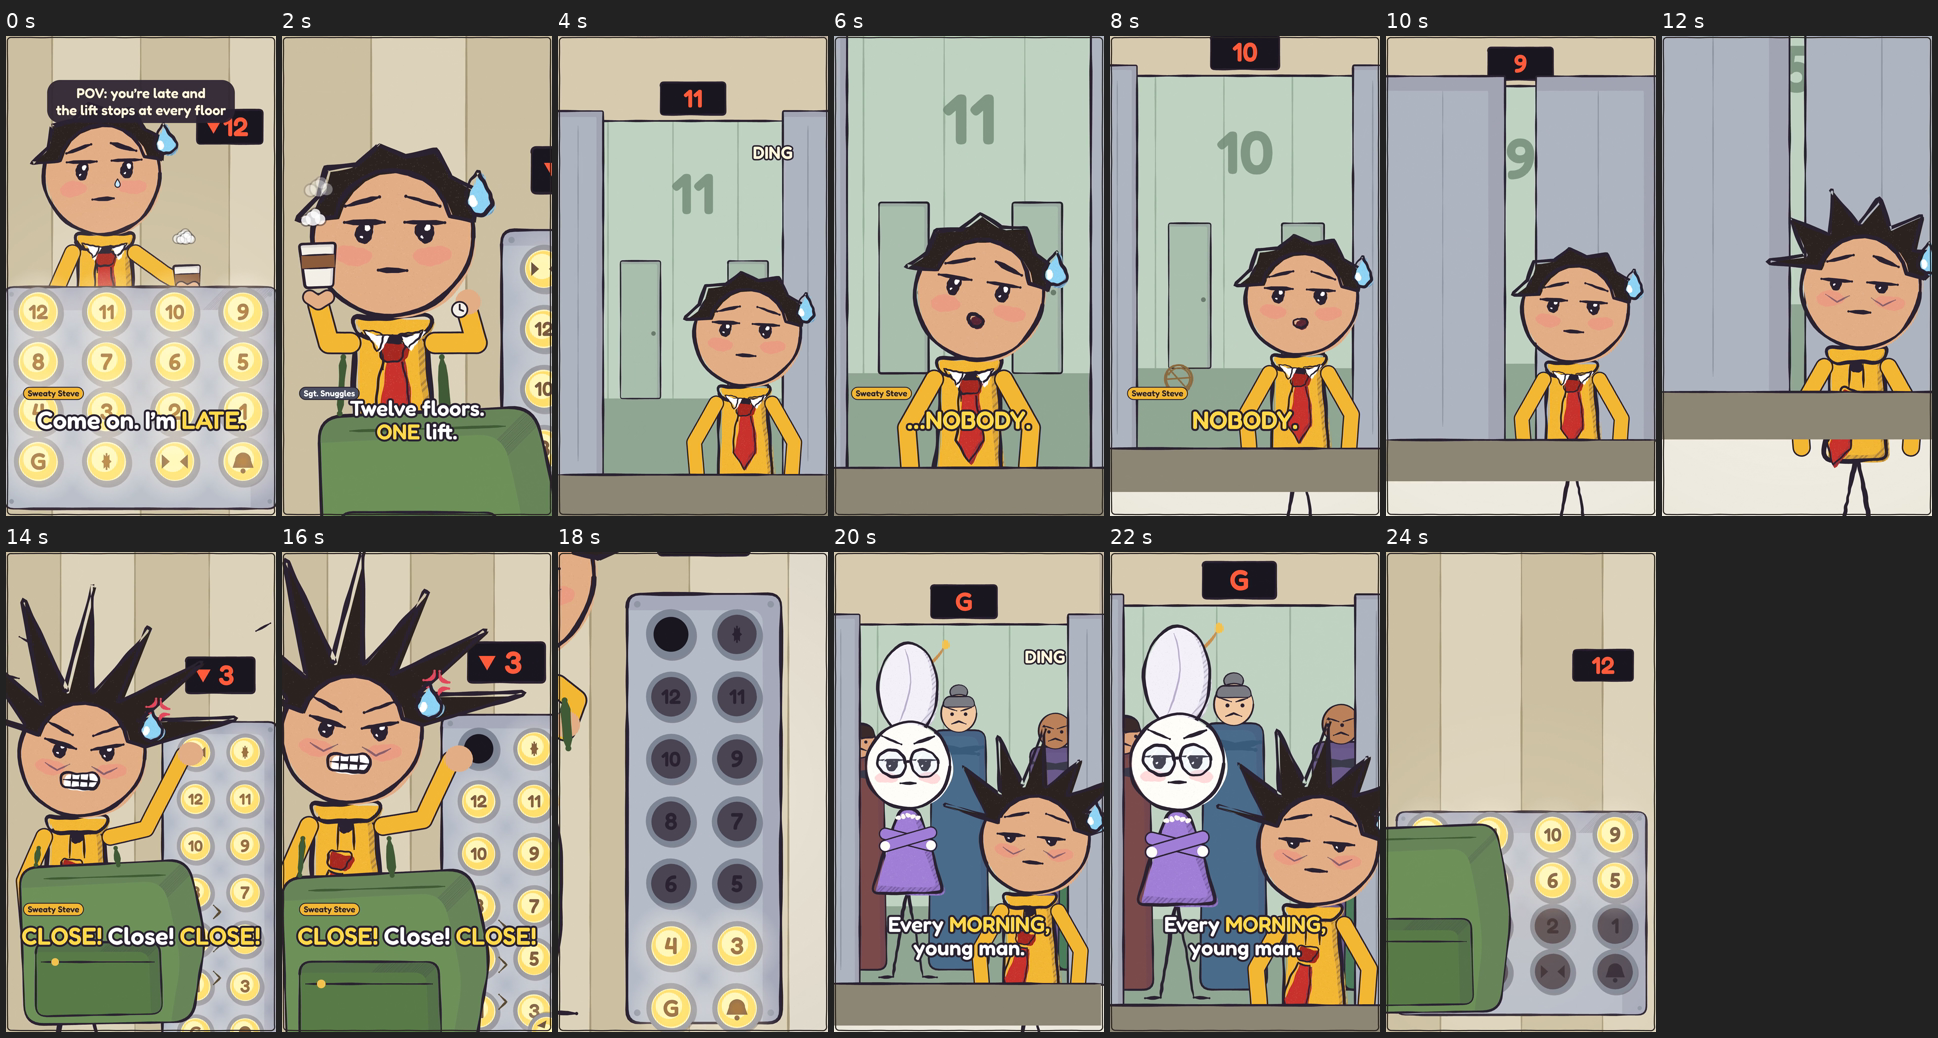
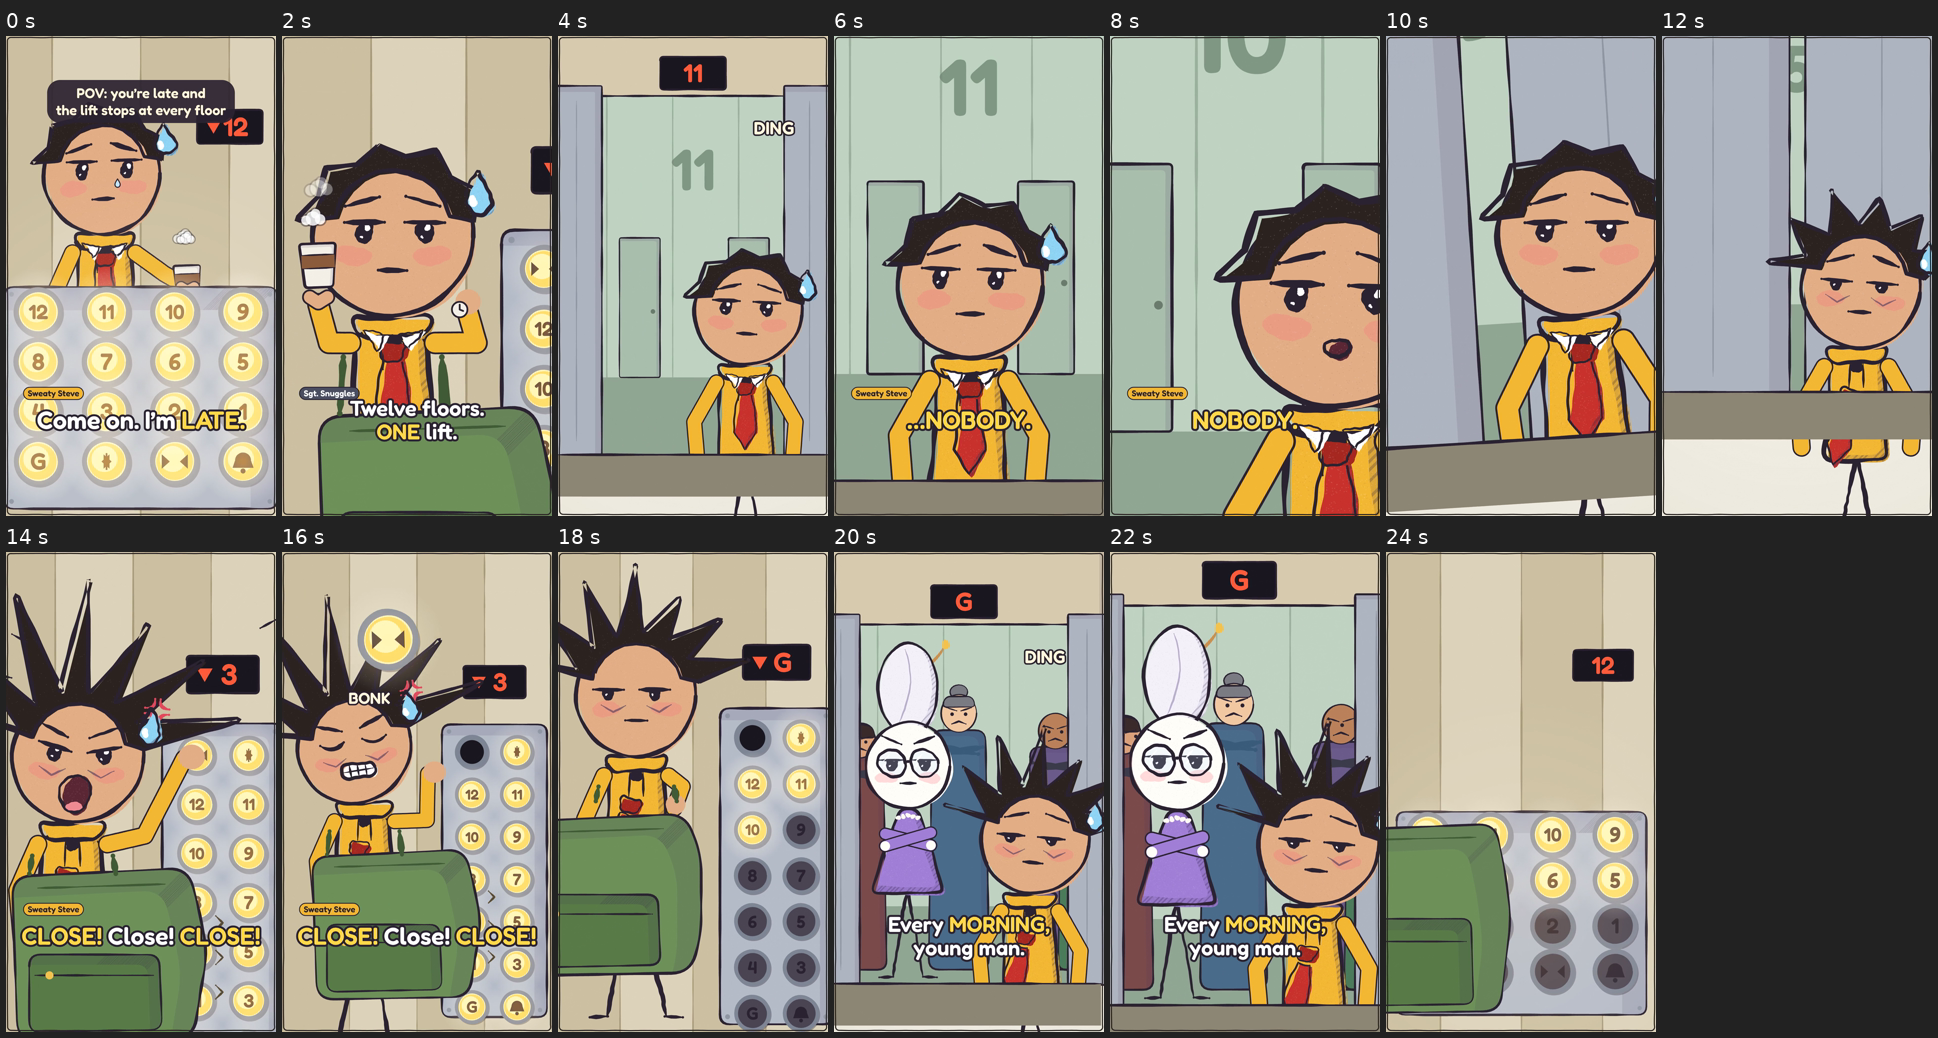
Tập 14: self-review fixes (hallway beats, peak stabs + bonk, bag-off reveal)

Changed region(s): [[0.2786, 0.0308, 0.8669, 0.4933], [0.0, 0.5241, 0.4334, 1.0]]

diff --git a/episodes/23-next/film/scene.js b/episodes/23-next/film/scene.js
@@ -18,7 +18,7 @@ const chat = (t, hz = 10) => Math.floor(t * hz) % 2 === 0;
 
 // ---------- key times ----------
 const DING = [4.70, 8.20, 10.40, 11.03, 11.66, 12.29, 12.92, 13.55, 14.18];   // montage slots start on a DING (9 → 3)
-const SLOT = 0.63, M0 = 10.40, PEAK0 = 14.82, POP = 15.32, CALM = 17.6, OFF0 = 18.30, PUNCH = 20.697, SHUF = 23.5, LOOP0 = 24.4;
+const SLOT = 0.63, M0 = 10.40, PEAK0 = 14.82, POP = 16.52, CALM = 17.6, OFF0 = 18.30, PUNCH = 20.697, SHUF = 23.5, LOOP0 = 24.4;
 const flo = t => t < 4.45 ? 12 : t < 7.55 ? 11 : t < 10.4 ? 10 : t < M0 + 7 * SLOT ? 9 - Math.min(6, Math.floor((t - M0) / SLOT)) : t < PUNCH ? 2 : 'G';
 const decay = t => seg(t, M0, 14.8);
 
@@ -117,19 +117,22 @@ function worldB(t, o = {}) {
     if (o.cup !== false) { armTube([sh, [150, 1010], [120, 900]], 54, MUSTARD, 33); coffee(120, 790, t, 0.08 * Math.sin(t * 16) * (o.slosh ?? 1), o.steam ?? 1); spen(t, 69, 5).tube([[96, 880], [120, 896], [146, 880]], 34, SK); }
     else armTube([sh, [X - 190, Y - 52 * s + 40], [X - 175, Y - 38 * s]], 56, MUSTARD, 33);
     const w = o.watch ?? 0, hx = lerp(470, 540, w), hy = lerp(1060, 905, w);
-    armTube([shR, [lerp(500, 570, w), lerp(980, 1010, w)], [hx, hy]], 54, MUSTARD, 34);
-    ctx.fillStyle = SK; ctx.beginPath(); ctx.arc(hx + 6, hy - 14, 34, 0, 7); ctx.fill(); spen(t, 70, 5).outline(ellipsePts(hx + 6, hy - 14, 34, 34, 20), true, 5);
-    if (w > 0.5) { ctx.fillStyle = '#f4efe6'; ctx.beginPath(); ctx.arc(hx - 18, hy + 8, 22, 0, 7); ctx.fill(); ctx.strokeStyle = INK; ctx.lineWidth = 5; ctx.stroke(); ctx.beginPath(); ctx.moveTo(hx - 18, hy + 8); ctx.lineTo(hx - 18, hy - 6); ctx.moveTo(hx - 18, hy + 8); ctx.lineTo(hx - 8, hy + 12); ctx.stroke(); }
+    if (o.rub === undefined) armTube([shR, [lerp(500, 570, w), lerp(980, 1010, w)], [hx, hy]], 54, MUSTARD, 34);
+    if (o.rub !== undefined) { const rx = X + 70 + 26 * Math.cos(t * 26), ry = Y - 80 * s + 70 + 20 * Math.sin(t * 26); armTube([shR, [X + 230, Y - 60 * s + 60], [rx + 20, ry + 30]], 54, MUSTARD, 34); ctx.fillStyle = SK; ctx.beginPath(); ctx.arc(rx, ry, 40, 0, 7); ctx.fill(); spen(t, 70, 5).outline(ellipsePts(rx, ry, 40, 40, 20), true, 5); }
+    else { ctx.fillStyle = SK; ctx.beginPath(); ctx.arc(hx + 6, hy - 14, 34, 0, 7); ctx.fill(); spen(t, 70, 5).outline(ellipsePts(hx + 6, hy - 14, 34, 34, 20), true, 5); }
+    if (w > 0.5 && o.rub === undefined) { ctx.fillStyle = '#f4efe6'; ctx.beginPath(); ctx.arc(hx - 18, hy + 8, 22, 0, 7); ctx.fill(); ctx.strokeStyle = INK; ctx.lineWidth = 5; ctx.stroke(); ctx.beginPath(); ctx.moveTo(hx - 18, hy + 8); ctx.lineTo(hx - 18, hy - 6); ctx.moveTo(hx - 18, hy + 8); ctx.lineTo(hx - 8, hy + 12); ctx.stroke(); }
   }
   // backpack (the plant): huge, squashed against the lower panel; glow shows round it
-  const bx = o.bagX ?? 0; bag(120 + bx, 1190, 790 + bx, 1790, bx < -20 ? 0 : 70, 9);
+  const bx = o.bagX ?? 0, by = o.bagY ?? 0; bag(120 + bx, 1190 + by, 790 + bx, 1790 + by, bx < -20 ? 0 : 70, 9);
   if (bx > -20) { const q = spen(t, 72, 7); for (const y of [1380, 1500, 1620]) q.line([[826, y - 24], [850, y], [826, y + 24]], 8, '#5a4a32'); }
-  { const q = spen(t, 73, 9); q.line([[X + sw - 140, Y - 58 * s + 10], [X + sw - 150, 1210 + bx * 0.3]], 26, '#3f5a34'); q.line([[X + sw + 140, Y - 58 * s + 10], [X + sw + 150, 1210 + bx * 0.3]], 26, '#3f5a34'); }
+  { const q = spen(t, 73, 9); q.line([[X + sw - 140, Y - 58 * s + 10], [X + sw - 150, 1210 + bx * 0.3 + by]], 26, '#3f5a34'); q.line([[X + sw + 140, Y - 58 * s + 10], [X + sw + 150, 1210 + bx * 0.3 + by]], 26, '#3f5a34'); }
   // the flying CLOSE button
-  if (o.flyT !== undefined && o.flyT >= 0) {
-    const d = o.flyT, vx = 340, vy = -520, g = 1900; let x = 760 + vx * d, y = 800 + vy * d + 0.5 * g * d * d; const fl = 1800;
-    if (y > fl) { const d2 = d - (-vy + Math.sqrt(vy * vy + 2 * g * (fl - 800))) / g; y = fl - Math.abs(Math.sin(Math.max(0, d2) * 7)) * 220 * Math.exp(-Math.max(0, d2) * 2.5); x = 760 + vx * d * 0.8; }
-    x = Math.min(x, 980); ctx.save(); ctx.translate(x, y); ctx.rotate(d * 14); lbtn(0, 0, 52, 'close', 'lit', 300); ctx.restore(); glowOn(x, y, 52, 0.4);
+  if (o.flyT !== undefined && o.flyT >= 0) {   // pops off big toward camera, bonks Steve's forehead, bounces out of frame
+    const d = o.flyT, hit = 0.25; let x, y, r;
+    if (d < hit) { const k = d / hit; x = lerp(760, 360, k); y = lerp(800, 560, k) - 150 * Math.sin(k * Math.PI); r = lerp(52, 105, Math.sin(k * Math.PI / 2)); }
+    else { const d2 = d - hit; x = 360 + 330 * d2; y = 560 - 1300 * d2 + 1200 * d2 * d2; r = 105; }
+    ctx.save(); ctx.translate(x, y); ctx.rotate(d * 14); lbtn(0, 0, r, 'close', 'lit', 300); ctx.restore(); glowOn(x, y, r, 0.4);
+    if (d >= hit && d < hit + 0.32) { strokedText('BONK', X + 20, Y - 80 * s - 190, 64, '#fff6dc', 12); }
   }
   if (o.hint) { const q = spen(t, 74, 7); for (const [x, y, a] of [[120, 380, 0.5], [60, 520, 0.2], [980, 360, -0.5]]) q.line([[x, y], [x + Math.cos(a) * 60, y + Math.sin(a) * 60]], 9, '#2a2230'); }
 }
@@ -137,8 +140,8 @@ function worldB(t, o = {}) {
 // =====================================================================================
 // WORLD C · the doors (still 3): looking out of the lift. o: floor, open(0..1), hall('empty'|'crowd'), twT, steveX, hcY, pose, ding, crowd{...}, nose
 // =====================================================================================
-function tumble(x, y, rot) {
-  ctx.save(); ctx.translate(x, y); ctx.rotate(rot); ctx.strokeStyle = '#8a6a3e'; ctx.lineWidth = 6; ctx.lineCap = 'round';
+function tumble(x, y, rot, sc = 1) {
+  ctx.save(); ctx.translate(x, y); ctx.scale(sc, sc); ctx.rotate(rot); ctx.strokeStyle = '#8a6a3e'; ctx.lineWidth = 6; ctx.lineCap = 'round';
   for (let i = 0; i < 9; i++) { const a = i * 0.7, rr = 40 + 14 * hash(i); ctx.beginPath(); ctx.arc(0, 0, rr, a, a + 3.6); ctx.stroke(); }
   ctx.beginPath(); ctx.moveTo(-50, -10); ctx.lineTo(50, 14); ctx.moveTo(-20, -50); ctx.lineTo(24, 48); ctx.stroke(); ctx.restore();
 }
@@ -170,9 +173,11 @@ function worldC(t, o = {}) {
   // steve (behind the leaves while he leans out)
   const s = 14, hcY = o.hcY ?? 1190, SX = o.steveX ?? 745, Y = hcY + 80 * s;
   const drawSteve = () => {
+    const q = o.squash ?? 0; ctx.save(); ctx.translate(SX, hcY); ctx.scale(1 - 0.3 * q, 1 + 0.12 * q); ctx.translate(-SX, -hcY);
     steve(SX, Y, s, o.pose, o.hair ?? 2, o.bags ?? 1, o.loose ?? true);
     armTube([[SX - 8 * s, Y - 60 * s], [SX - 200, Y - 56 * s + 100], [SX - 190, Y - 40 * s]], 54, MUSTARD, 36);
     armTube([[SX + 8 * s, Y - 60 * s], [SX + 200, Y - 56 * s + 100], [SX + 190, Y - 40 * s]], 54, MUSTARD, 37);
+    ctx.restore();
   };
   if (o.behind) drawSteve();
   // ceiling, display, leaves
@@ -182,7 +187,8 @@ function worldC(t, o = {}) {
     for (const [x0, x1] of [[-20, xl], [xr, 1100]]) { p.part(roundPoly([[x0, 300], [x1, 300], [x1, 1760], [x0, 1760]], 6), '#aeb4bf', { shade: 0.18, lw: 8 }); p.line([[(x0 + x1) / 2, 360], [(x0 + x1) / 2, 1700]], 4, '#8f95a3'); } }
   if (!o.behind) drawSteve();
   ctx.fillStyle = '#8d8574'; ctx.fillRect(0, 1755, W, 165); spen(t, 81, 8).line([[0, 1755], [W, 1755]], 8);
-  if (o.nose) { const np = ellipsePts(540, hcY + 30, 36, 28, 20); ctx.fillStyle = '#d99a8a'; ctx.beginPath(); np.forEach((q, i) => i ? ctx.lineTo(q[0], q[1]) : ctx.moveTo(q[0], q[1])); ctx.fill(); spen(t, 84, 6).outline(np, true, 6); }
+  if (o.nose) { const np = ellipsePts(540, hcY + 30, 52, 40, 20); ctx.fillStyle = '#d99a8a'; ctx.beginPath(); np.forEach((q, i) => i ? ctx.lineTo(q[0], q[1]) : ctx.moveTo(q[0], q[1])); ctx.fill(); spen(t, 84, 6).outline(np, true, 6); }
+  if (o.twF !== undefined) { const k = seg(t, o.twF, o.twF + 0.95); if (k > 0 && k < 1) tumble(lerp(-260, 1340, k), 1620 - Math.abs(Math.sin(k * 9)) * 120, k * 22, 2.6); }
   if (o.ding !== undefined && o.ding >= 0 && o.ding < 0.4) strokedText('DING', 860, 470, 70, '#fff6dc', 12);
 }
 const doorOpen = (t, td) => seg(t, td + 0.03, td + 0.28) - seg(t, td + 0.38, td + 0.6);
@@ -192,6 +198,18 @@ function steveC(t, extra = {}) {   // Steve's face in the doorway world
   return { eyes: 'dot', lid: tw, brow: 'worried', mouth: talk, look: -0.4, fx: ['sweat'], tilt: 3 + 2 * Math.sin(t * 6), ...extra };
 }
 
+const STABS = [14.93, 15.68, 16.50];
+function peak(t, zoom, fx, fy) {
+  // each stab: 0 -> 1 in 0.07 s, hold 0.08, retract over 0.2; between stabs the fist hovers back
+  const pulse = ts => seg(t, ts - 0.07, ts) * (1 - seg(t, ts + 0.08, ts + 0.28));
+  const stab = 0.15 + 0.85 * Math.max(...STABS.map(pulse));
+  const sk = Math.max(...STABS.map(ts => (t >= ts && t < ts + 0.1) ? 1 : 0));   // 3 frames of shake
+  const closeGone = t >= POP, bonk = t >= POP + 0.25 && t < POP + 0.45;
+  const sx = sk * 16 * Math.sin(t * 190), sy = sk * 16 * Math.cos(t * 170);
+  const pz = zoom * (1 + 0.05 * sk);
+  const pose = { ...{ expr: 'furious', eyes: 'angry', brow: 'angry', mouth: 'scream', fx: ['vein', 'sweat'], puff: 1, tilt: 4 }, ...(bonk ? { eyes: 'closed', tilt: -10, mouth: 'teeth' } : {}) };
+  cam(pz, fx, fy, () => worldB(t, { hair: 2, bags: 1, loose: true, sag: 2.4 - 1.2 * seg(t, 16.6, 17.6), closeMissing: closeGone, disp: 3, pose, stab, cup: false, flyT: closeGone ? t - POP : -1, hint: t < 16.4 }), sx, sy);
+}
 // ---------- shot list ----------
 let SHOTS = [];
 function build() {
@@ -213,17 +231,37 @@ function build() {
     [2.45, t => { const w = eio(seg(t, 2.6, 3.0)); cam(kf(t, [[2.45, 1.35], [3.6, 1.5]]), 400, 820, () => worldB(t, { ...bCommon(t), watch: w * (t < 3.5 ? 1 : 1 - seg(t, 3.5, 3.7)), dx: 4 * Math.sin(t * 22) * (t > 3.0 && t < 3.7 ? 1 : 0.3), slosh: 1.6, pose: { ...bCommon(t).pose, look: t < 3.0 ? 0.3 : -0.5 } })); }],
     // B3 · the display ticks 12 → 11
     [3.6, t => { cam(kf(t, [[3.6, 1.5], [4.7, 1.9]]), 800, 760, () => worldB(t, { ...bCommon(t), disp: t < 3.95 ? 12 : 11 })); }],
-    // C1 · DING 4.70: the doors open on an empty hall at 11, Steve leans out, s3, doors close on his nose
+    // C1a · DING 4.70: doors open on an empty hall at 11; Steve leans out (wide)
     [4.70, t => {
-      const op = doorOpen(t, 4.7) > 0 || t < 5.0 ? seg(t, 4.73, 5.0) * (1 - seg(t, 6.95, 7.35)) : 1 - seg(t, 6.95, 7.35); const lean = eio(seg(t, 5.0, 5.6)), nose = t > 7.2 && t < 7.5;
-      cam(kf(t, [[4.7, 1.0], [5.8, 1.0], [7.5, 1.3]]), 540, kf(t, [[4.7, 960], [5.8, 960], [7.5, 1180]]), () => worldC(t, { floor: 11, open: Math.max(0, op), hall: 'empty', steveX: lerp(745, 540, lean), behind: lean > 0.3, pose: steveC(t, { tilt: 3 + 6 * lean }), hair: 0, bags: 0, loose: false, nose, ding: t - 4.7, hcY: 1190 }));
+      const lean = eio(seg(t, 5.0, 5.6)), op = seg(t, 4.73, 5.0);
+      cam(kf(t, [[4.7, 1.0], [5.8, 1.12]]), 540, 1050, () => worldC(t, { floor: 11, open: op, hall: 'empty', steveX: lerp(745, 540, lean), behind: lean > 0.3, pose: steveC(t, { tilt: 3 + 6 * lean }), hair: 0, bags: 0, loose: false, ding: t - 4.7, hcY: 1190 }));
     }],
-    // B4 · back inside: display ticks 11 → 10
-    [7.50, t => { cam(kf(t, [[7.5, 1.9], [8.2, 1.7]]), 700, 760, () => worldB(t, { ...bCommon(t), disp: t < 7.7 ? 11 : 10, pose: { ...bCommon(t).pose, look: -0.5, lid: 0.35 } })); }],
-    // C2 · DING 8.20: floor 10, a tumbleweed rolls across, s4, eye twitch
+    // C1b · s3 "…Nobody": tight on his head, he looks left, then right, down the corridor
+    [5.80, t => {
+      const lk = t < 6.3 ? -1.0 * eio(seg(t, 5.85, 6.1)) : -1.0 + 2.0 * eio(seg(t, 6.3, 6.6));
+      cam(kf(t, [[5.8, 1.5], [6.95, 1.62]], t2 => t2), 540, 1160, () => worldC(t, { floor: 11, open: 1, hall: 'empty', steveX: 540, behind: true, pose: steveC(t, { look: lk, tilt: 8 * lk, lid: 0.18 }), hair: 0, bags: 0, loose: false, hcY: 1190 }));
+    }],
+    // C1c · the doors close on his nose: squash, boop
+    [6.95, t => {
+      const op = 1 - seg(t, 6.95, 7.3), q = seg(t, 7.0, 7.28) * (1 - seg(t, 7.4, 7.5)), nose = t > 7.22 && t < 7.5;
+      cam(1.4, 540, 1170, () => worldC(t, { floor: 11, open: op, hall: 'empty', steveX: 540, behind: true, squash: q, nose, pose: steveC(t, { eyes: q > 0.5 ? 'closed' : 'dot', mouth: q > 0.5 ? 'small' : 'line', lid: 0.2 }), hair: 0, bags: 0, loose: false, hcY: 1190 }), ...shake(t, t > 7.28 && t < 7.45 ? 12 : 0, 45));
+    }],
+    // B4 · back inside, rubbing his nose: display ticks 11 → 10
+    [7.50, t => { cam(1.3, 600, 700, () => worldB(t, { ...bCommon(t), disp: t < 7.7 ? 11 : 10, rub: 1, cup: true, pose: { ...bCommon(t).pose, eyes: t < 7.9 ? 'closed' : 'dot', look: 0.2, lid: 0.35, tilt: -4 } })); }],
+    // C2a · DING 8.20: floor 10, doors open (wide, he sags)
     [8.20, t => {
-      const op = t < 10.0 ? seg(t, 8.23, 8.5) : 1 - seg(t, 10.0, 10.38);
-      cam(kf(t, [[8.2, 1.0], [10.4, 1.22]]), 540, 1100, () => worldC(t, { floor: 10, open: op, hall: 'empty', twT: 8.45, pose: steveC(t), hair: 0, bags: 0, loose: false, ding: t - 8.2 }));
+      const op = seg(t, 8.23, 8.5);
+      cam(kf(t, [[8.2, 1.0], [8.8, 1.08]]), 540, 1080, () => worldC(t, { floor: 10, open: op, hall: 'empty', pose: steveC(t), hair: 0, bags: 0, loose: false, ding: t - 8.2 }));
+    }],
+    // C2b · s4 "NOBODY": close-up, eye twitch
+    [8.80, t => {
+      const tw = (Math.floor(t * 14) % 3 === 0 && t > 8.95) ? 0.75 : 0.18;
+      cam(kf(t, [[8.8, 1.9], [9.55, 2.1]], t2 => t2), 560, 1130, () => worldC(t, { floor: 10, open: 1, hall: 'empty', pose: steveC(t, { lid: tw, brow: tw > 0.5 ? 'angry' : 'worried', tilt: 2 }), hair: 0, bags: 0, loose: false }), ...shake(t, tw > 0.5 ? 3 : 0, 50));
+    }],
+    // C2c · cut wide: a big tumbleweed rolls across the foreground; doors close
+    [9.55, t => {
+      const op = 1 - seg(t, 10.0, 10.38);
+      cam(kf(t, [[9.55, 1.0], [10.4, 1.06]], t2 => t2), 540, 1100, () => worldC(t, { floor: 10, open: op, hall: 'empty', twF: 9.55, pose: steveC(t), hair: 0, bags: 0, loose: false }));
     }],
   ];
   // montage 9 → 3: a cut on every DING
@@ -231,7 +269,12 @@ function build() {
     const td = M0 + k * SLOT, fl = 9 - k;
     SHOTS.push([td, t => {
       const L = decay(t), loose = L > 0.22, hair = L < 0.3 ? 0 : L < 0.65 ? 1 : 2, bg = L > 0.55 ? 1 : 0;
-      if (k % 2 === 0) {   // doors open on the empty hall
+      if (k === 0) {   // floor 9: low angle from the floor, tilted, looking up at him
+        const u = seg(t, td, td + SLOT);
+        ctx.save(); ctx.translate(540, 960); ctx.rotate(-0.09 + 0.03 * u); ctx.translate(-540, -960);
+        cam(lerp(1.45, 1.55, u), 600, 1330, () => worldC(t, { floor: fl, open: doorOpen(t, td), hall: 'empty', hcY: 1190 + 340 * L, pose: steveC(t, { lid: 0.2 + 0.55 * L, mouth: 'line' }), hair, bags: bg, loose, ding: t - td }), ...shake(t, 2, 40));
+        ctx.restore();
+      } else if (k % 2 === 0) {   // doors open on the empty hall
         const zoom = [1.0, 1.0, 1.5, 1.0, 1.15, 1.0, 1.7][k], fy = [1100, 1100, 1250, 1100, 1350, 1100, 1500][k];
         cam(zoom, k === 6 ? 700 : 540, fy, () => worldC(t, { floor: fl, open: doorOpen(t, td), hall: 'empty', twT: k === 2 ? td + 0.1 : undefined, hcY: 1190 + 340 * L, pose: steveC(t, { lid: 0.2 + 0.55 * L, mouth: 'line' }), hair, bags: bg, loose, ding: t - td }), ...shake(t, 2, 40));
       } else {            // inside: face / display / panel close-ups
@@ -242,27 +285,19 @@ function build() {
     }]);
   }
   SHOTS.push(
-    // B5 · PEAK (s6): he stabs CLOSE, it pops off and bounces, camera shake
-    [PEAK0, t => {
-      const stab = t < 15.4 ? 0.5 + 0.5 * Math.abs(Math.sin((t - PEAK0) * 11)) : 1 - 0.3 * seg(t, 15.4, 15.9);
-      const closeGone = t >= POP, mouth = t < 17.0 ? 'scream' : 'teeth';
-      cam(kf(t, [[PEAK0, 1.1], [17.6, 1.25]]), 560, 940, () => worldB(t, { hair: 2, bags: 1, loose: true, sag: 2.4 - 1.2 * seg(t, 15.6, 17.6), closeMissing: closeGone, disp: 3, pose: stRage, stab: Math.min(1, stab), cup: false, flyT: closeGone ? t - POP : -1, hint: t < 16.4 }),
-        ...shake(t, 10 * Math.exp(-(t - PEAK0) * 0.6) * (t < 16.5 ? 1 : 0.2), 41));
-      void mouth;
-    }],
-    // R7a · calm: he stands up, the bag slides off the panel
+    // B5 · PEAK (s6): three hard stabs (CLOSE! Close! CLOSE!), a 3-frame shake on each; the last pops the button off
+    [PEAK0, t => peak(t, 1.1, 560, 940)],
+    [15.58, t => peak(t, 1.32, 520, 840)],
+    [16.40, t => peak(t, 1.0, 540, 960)],
+    // R7 · calm: he stands up, the bag lifts OFF the panel, then the lights click off bottom-up (one wide shot)
     [CALM, t => {
-      const up = eio(seg(t, 17.6, 18.2)), bagX = lerp(0, -330, eio(seg(t, 17.85, 18.4)));
-      cam(kf(t, [[CALM, 1.05], [OFF0, 1.15]]), 540, 960, () => worldB(t, { hair: 2, bags: 1, loose: true, sag: lerp(1.2, 0, up), closeMissing: true, disp: 'G', bagX, pose: { eyes: 'dot', lid: 0.5, brow: undefined, mouth: 'line', look: -0.9, fx: [], tilt: 0 }, cup: false }));
-    }],
-    // R7b · the lights click off one by one (panel close-up)
-    [OFF0 - 0.0, t => {
-      cam(kf(t, [[OFF0, 1.35], [19.3, 1.5]]), 820, 1230, () => worldB(t, { hair: 2, bags: 1, loose: true, sag: 0, closeMissing: true, disp: 'G', bagX: -330, offAt: i => OFF0 + 0.05 + (i - 1) * 0.075, pose: { eyes: 'dot', lid: 0.5, mouth: 'line', look: -0.9, fx: [] }, cup: false }));
+      const up = eio(seg(t, 17.6, 18.2)), lift = eio(seg(t, 17.85, 18.3));
+      cam(kf(t, [[CALM, 1.0], [19.3, 1.1]], t2 => t2), 540, 1000, () => worldB(t, { hair: 2, bags: 1, loose: true, sag: lerp(1.2, 0, up), closeMissing: true, disp: 'G', bagX: lerp(0, -220, lift), bagY: lerp(0, -110, lift), offAt: i => OFF0 + 0.05 + (13 - i) * 0.075, pose: { eyes: 'dot', lid: 0.5, brow: undefined, mouth: 'line', look: -0.9, fx: [], tilt: 0 }, cup: false }));
     }],
     // R7c · he looks at the bag, then at the camera; slow push-in on his face
     [19.3, t => {
       const look = t < 19.8 ? -1.0 : 0.0;
-      cam(kf(t, [[19.3, 1.5], [PUNCH, 2.1]], t2 => t2), 380, kf(t, [[19.3, 800], [PUNCH, 780]], t2 => t2), () => worldB(t, { hair: 2, bags: 1, loose: true, sag: 0, closeMissing: true, disp: 'G', bagX: -330, offAt: () => 0, pose: { eyes: 'dot', lid: 0.45, brow: 'worried', mouth: 'line', look, fx: [], tilt: look < 0 ? -3 : 0 }, cup: false }));
+      cam(kf(t, [[19.3, 1.5], [PUNCH, 2.1]], t2 => t2), 380, kf(t, [[19.3, 800], [PUNCH, 780]], t2 => t2), () => worldB(t, { hair: 2, bags: 1, loose: true, sag: 0, closeMissing: true, disp: 'G', bagX: -220, bagY: -110, offAt: () => 0, pose: { eyes: 'dot', lid: 0.45, brow: 'worried', mouth: 'line', look, fx: [], tilt: look < 0 ? -3 : 0 }, cup: false }));
     }],
     // PUNCH · DING at G: doors open on the waiting crowd; heads turn in sync; hold on Steve's face
     [PUNCH, t => {
